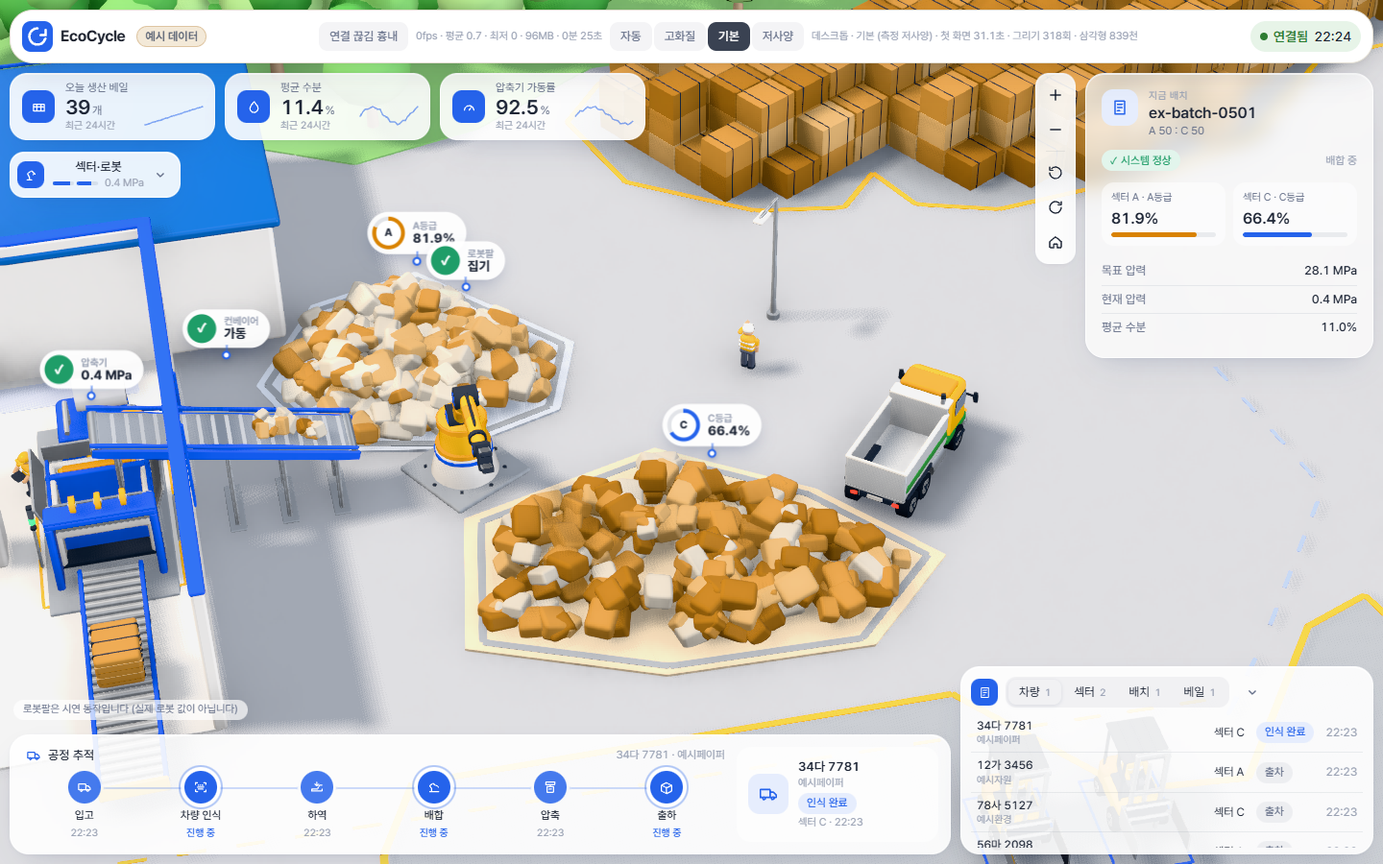
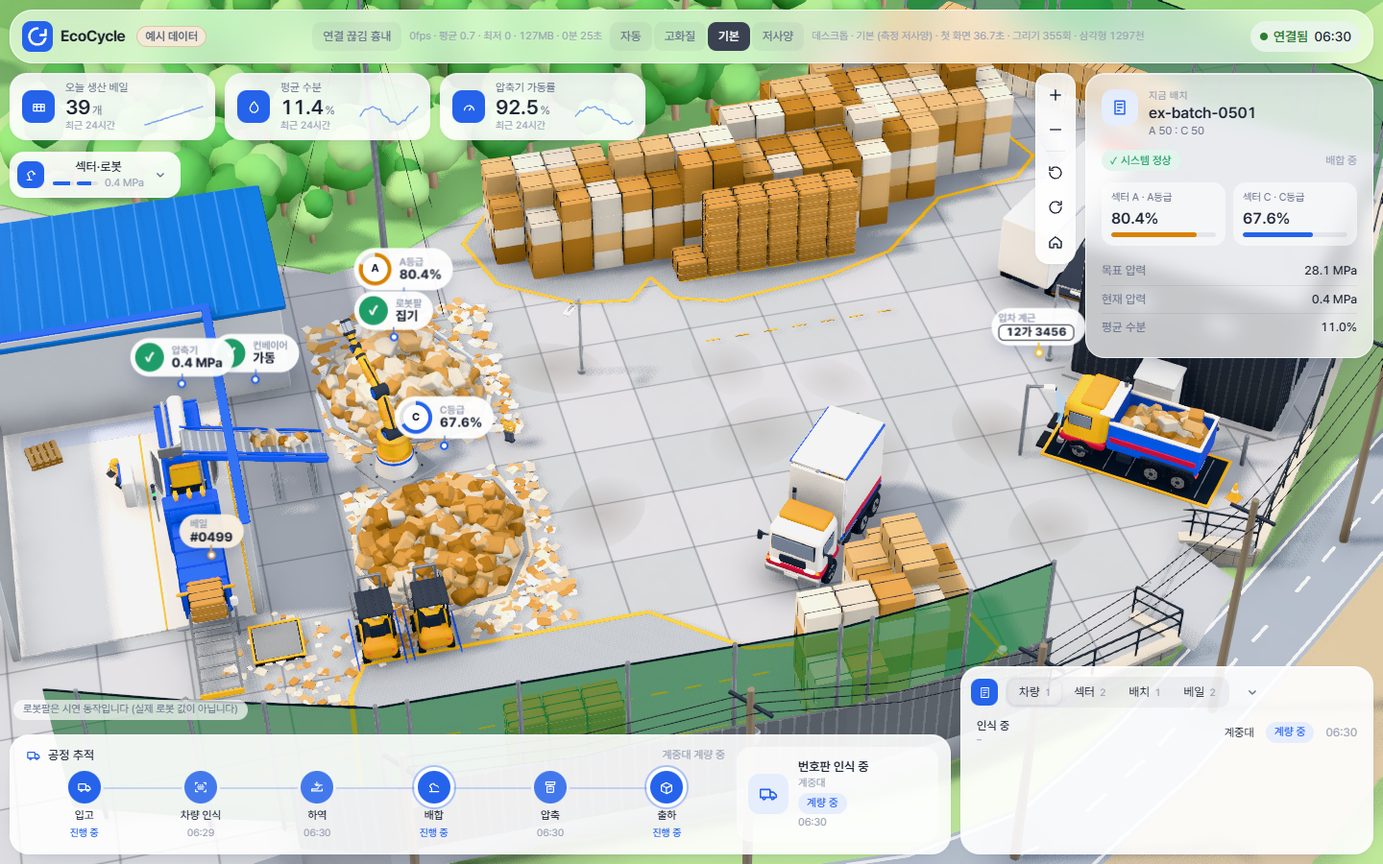
feat(studio): 현장 사진 방향 화면·점검 갈고리, 남동 베일 벽, 사진 비교 스크린샷과 studio 문서 갱신

diff --git a/app/src/studio/StudioScene.tsx b/app/src/studio/StudioScene.tsx
@@ -1,10 +1,12 @@
-import { useEffect, useMemo } from 'react';
+import { useEffect, useMemo, useRef } from 'react';
 import type { RobotModel } from '@ecocycle/shared';
 import { chainSpecFor } from './robot/chain';
 import { Stage } from './Stage';
 import type { StageProps } from './Stage';
 import { Director } from './sim/director';
 import type { StudioData } from './types';
+import { PHOTO_VIEWS } from './world/views';
+import { onSiteVehicles } from './overlay/text';
 
 // 3D 장면 조각: three.js와 무대·연출 감독은 모두 여기서부터 불러온다.
 // StudioView(패널, three 없음)가 이 파일만 lazy로 불러온다. 그래서 패널은 three를 기다리지 않고 바로 그려진다.
@@ -17,6 +19,10 @@ export interface StudioSceneProps extends Omit<StageProps, 'director' | 'robotSp
 }
 
 export default function StudioScene({ data, robotModel, onYardFull, ...stage }: StudioSceneProps) {
+  const { rig } = stage;
+  // 점검용: 표의 "차량 N"과 같은 선택자로 센 회사 안 차량 수를 장면 트럭 대수와 견준다
+  const latest = useRef(data);
+  latest.current = data;
   const director = useMemo(() => new Director(), []);
   const robotSpec = useMemo(() => chainSpecFor(robotModel), [robotModel]);
 
@@ -34,13 +40,24 @@ export default function StudioScene({ data, robotModel, onYardFull, ...stage }: 
     };
   }, [director, onYardFull]);
 
-  // 점검용: 주소에 ?yardprobe가 있으면 베일 적치의 겹침·칸 정합과 트럭끼리의 겹침을 읽는 함수를 내준다 (scripts/yardSoak.mjs). 화면 값에는 영향이 없다
+  // 점검용: 주소에 ?yardprobe가 있거나 세션 저장소에 점검 표시가 있으면 베일 적치의 겹침·칸 정합과 트럭끼리의 겹침을 읽는 함수를 내준다 (scripts/yardSoak.mjs). 화면 값에는 영향이 없다
   useEffect(() => {
-    if (!new URLSearchParams(window.location.search).has('yardprobe')) return;
-    const probe = window as unknown as { __yardAudit?: () => unknown };
-    probe.__yardAudit = () => ({ t: director.t, ...director.yard.audit(director.trucks), truckOnTruck: director.truckOverlaps(), ...director.yard.stats });
-    return () => void delete probe.__yardAudit;
-  }, [director]);
+    // (실제 홈은 로그인 뒤 주소가 바뀌므로 점검 스크립트가 세션 저장소에 'ecocycle.yardprobe'를 넣어 켠다)
+    if (!new URLSearchParams(window.location.search).has('yardprobe') && sessionStorage.getItem('ecocycle.yardprobe') !== '1') return;
+    const probe = window as unknown as { __yardAudit?: () => unknown; __studioView?: (key: string) => boolean };
+    probe.__yardAudit = () => ({ t: director.t, ...director.yard.audit(director.trucks), truckOnTruck: director.truckOverlaps(), trucksOnSite: director.truckCount(), vehiclesOnSite: onSiteVehicles(latest.current.vehicles).length, ...director.yard.stats });
+    // 사진과 같은 방향의 화면으로 카메라를 옮긴다 (점검 스크립트의 스크린샷용, world/views의 PHOTO_VIEWS)
+    probe.__studioView = (key) => {
+      const preset = PHOTO_VIEWS[key];
+      if (!preset || !rig.current) return false;
+      rig.current.view(preset);
+      return true;
+    };
+    return () => {
+      delete probe.__yardAudit;
+      delete probe.__studioView;
+    };
+  }, [director, rig]);
 
   return <Stage director={director} robotSpec={robotSpec} {...stage} />;
 }

diff --git a/app/src/studio/world/buildWorld.ts b/app/src/studio/world/buildWorld.ts
@@ -790,6 +790,7 @@ function staticBale(k: Kit, x: number, y: number, z: number, rot: number, tone: 
 }
 
 const TONES = [C.kraft, C.kraftLight, C.paperGrey, C.kraftDark, C.kraftLight, C.paper];
+const tone = (n: number): string => TONES[((n % TONES.length) + TONES.length) % TONES.length]!;
 
 /** 마당 좌표의 격자(같은 방향·간격)로 다각형 안을 채운다. keep(x, z)이 false면 비운다. 블록(4열)마다 4단 또는 5단 */
 function baleBlocks(k: Kit, poly: readonly P2[], keep: (x: number, z: number) => boolean, seed: number): number {
@@ -817,7 +818,7 @@ function baleBlocks(k: Kit, poly: readonly P2[], keep: (x: number, z: number) =>
       const block = Math.floor(i / 4) * 7 + Math.floor(j / 3);
       const edge = Math.min(...corners.map((c) => edgeDistance(c, poly)));
       const levels = (edge < 0.9 ? 3 : 4) + ((block * 2654435761) >>> 0) % 2;
-      for (let l = 0; l < levels; l += 1) staticBale(k, wx, TOP + 0.06 + l * BALE.h, wz, YARD_FRAME.rotY - Math.PI / 2, TONES[(i * 3 + j * 5 + l + Math.floor(rnd() * 2)) % TONES.length]!);
+      for (let l = 0; l < levels; l += 1) staticBale(k, wx, TOP + 0.06 + l * BALE.h, wz, YARD_FRAME.rotY - Math.PI / 2, tone(i * 3 + j * 5 + l + Math.floor(rnd() * 2)));
       n += 1;
     }
   }
@@ -828,16 +829,17 @@ function bales(k: Kit): void {
   // 북서: 칸 줄(지게차가 쓰는 곳, 길 앞) 뒤쪽을 모두 채운다
   const nwBack = YARD.nwSlotZ - BALE.d / 2 - 0.1;
   baleBlocks(k, BALE_AREAS.nw, (_x, z) => z + BALE.d / 2 < nwBack, 11);
-  // 남동: 칸 줄·길·대기 자리 밖, 북동 날개(높은 벽)
-  const seLaneEnd = YARD.laneEnd + 0.8;
-  baleBlocks(k, BALE_AREAS.se, (x, z) => x > seLaneEnd || (z > YARD.slotZ + BALE.d / 2 + 0.1 && x > YARD.seXs[YARD.seXs.length - 1]! + 0.8), 23);
+  // 남동: 지게차 길·칸 줄·가로지르는 길 밖을 모두 채운다 (북동 날개는 입구에서 보이는 높은 벽)
+  const lane = (x: number, z: number) => x > YARD.laneStart - 1.2 && x < YARD.laneEnd + 0.4 && z > -2.2 && z < YARD.slotZ + BALE.d / 2 + 0.05;
+  const exit = (x: number, z: number) => x > YARD.laneEnd - 1.6 && x < YARD.laneEnd + 2.6 && z < 1.2;
+  baleBlocks(k, BALE_AREAS.se, (x, z) => !lane(x, z) && !exit(x, z), 23);
   // 북쪽 그물망 곁 숲 경계 줄 (3단)
   const [a, b] = NORTH_ROW_PX.map(([x, y]) => sitePx(x, y));
   const len = Math.hypot(b![0] - a![0], b![1] - a![1]);
   const rot = Math.atan2(-(b![1] - a![1]), b![0] - a![0]);
   for (let s = 0.5; s < len; s += BALE.d + BALE_GAP) {
     const p: P2 = [a![0] + ((b![0] - a![0]) * s) / len, a![1] + ((b![1] - a![1]) * s) / len];
-    for (let l = 0; l < 3; l += 1) staticBale(k, p[0], TOP + 0.06 + l * BALE.h, p[1], rot, TONES[(Math.round(s * 3) + l) % TONES.length]!);
+    for (let l = 0; l < 3; l += 1) staticBale(k, p[0], TOP + 0.06 + l * BALE.h, p[1], rot, tone(Math.round(s * 3) + l));
   }
 }
 

diff --git a/app/src/studio/world/views.ts b/app/src/studio/world/views.ts
@@ -39,11 +39,24 @@ export const TOP_VIEW: ViewPreset = { key: 'top', label: '위에서 보기', hin
 export const AREAS: readonly ViewPreset[] = [
   { key: 'process', label: '섹터·로봇', hint: '섹터 A·C 더미, 로봇팔', tier: 'mid', at: [210, 372], height: 0.4, distance: 44, azimuth: 26, polar: 50 },
   { key: 'inbound', label: '입구·계근대', hint: '입차, 계근, 번호판 인식, 출차', tier: 'mid', at: [462, 272], height: 0, distance: 42, azimuth: 30, polar: 50 },
-  { key: 'baler', label: '압축기·레일', hint: '경사 레일, 압축기 건물, 배출구', tier: 'mid', at: [160, 440], height: 0.6, distance: 40, azimuth: 18, polar: 50 },
-  { key: 'bales', label: '베일 적치', hint: '남동 적치, 지게차, 상차(예시)', tier: 'mid', at: [338, 378], height: 0.2, distance: 50, azimuth: 30, polar: 50 },
+  { key: 'baler', label: '압축기·레일', hint: '경사 레일, 압축기, 배출 받침대·베일 저울', tier: 'mid', at: [178, 462], height: 0.6, distance: 38, azimuth: 18, polar: 50 },
+  { key: 'bales', label: '베일 적치', hint: '남동 적치, 북서 재고, 지게차, 상차', tier: 'mid', at: [320, 330], height: 0.2, distance: 52, azimuth: 30, polar: 52 },
 ];
 
 export const VIEWS: readonly ViewPreset[] = [WIDE_VIEW, TOP_VIEW, ...AREAS];
+
+/**
+ * 현장 사진과 같은 방향의 화면 (지역 전환 목록에는 없다: 점검 스크립트가 사진과 나란히 견줄 때만 쓴다).
+ * entrance: 입구 남쪽 도로에서 서북서, gate: 입구에서 서쪽, weighbridge: 사무실 남동 모서리 도로에서 북서쪽,
+ * approach: 사무실 북동쪽 도로에서 남쪽, upperRoad: 남동 바깥 더 높은 도로에서 북서쪽
+ */
+export const PHOTO_VIEWS: Record<string, ViewPreset> = {
+  entrance: { key: 'photo-entrance', label: '입구에서', hint: 'entrance.png', tier: 'mid', at: [430, 312], height: 0.6, distance: 30, azimuth: 66, polar: 72 },
+  gate: { key: 'photo-gate', label: '입구 안에서 서쪽', hint: 'from-gate-inside.png', tier: 'mid', at: [350, 330], height: 0.8, distance: 26, azimuth: 92, polar: 74 },
+  weighbridge: { key: 'photo-weighbridge', label: '계근대 쪽', hint: 'weighbridge.png', tier: 'mid', at: [430, 236], height: 0.8, distance: 24, azimuth: 46, polar: 72 },
+  approach: { key: 'photo-approach', label: '북동 도로에서', hint: 'approach.png', tier: 'mid', at: [470, 230], height: 0.6, distance: 30, azimuth: 160, polar: 72 },
+  upperRoad: { key: 'photo-upper-road', label: '남동 도로에서', hint: 'from-upper-road.png', tier: 'mid', at: [380, 410], height: 0.8, distance: 32, azimuth: 40, polar: 68 },
+};
 export const DEFAULT_VIEW: ViewPreset = AREAS[0]!;
 
 /** 거리 단계별 기준 거리 (확대·축소 버튼이 이 단계를 오간다) */

diff --git a/app/src/studio/sim/yard.ts b/app/src/studio/sim/yard.ts
@@ -146,6 +146,8 @@ const FACE_MINUS_Z = Math.PI / 2;
 const EJECT_SEC = 3.2;
 /** 두 베일을 한 번에 재는 동안 저울 위에 두는 시간(초, 연출) */
 export const WEIGH_SEC = 1.6;
+/** 압축기가 이만큼 넘게 기다리면 적치 구역이 가득 찬 것으로 알린다(초) */
+const FULL_AFTER_SEC = 20;
 /** 빈 포크 높이 */
 const LOW_FORK = 0.3;
 const IDLE_HOME_SEC = 0.4;
@@ -269,6 +271,8 @@ export class Yard {
   private seq = 0;
   /** 받침대 밀기(배출) 진행 0~1, 움직이지 않으면 -1 */
   private standMove = -1;
+  /** 내보낼 베일이 있는데 받침대가 막혀 기다린 시간(초) */
+  private blockedEjectT = 0;
   /** 저울 위 한 쌍을 잰 시간 */
   private weighT = 0;
   private readonly boxA = newBox();
@@ -584,7 +588,9 @@ export class Yard {
     this.stepBales();
     if (this.scaleCount() === 2 && !this.scaleBusy()) this.weighT += dt;
     this.dispatch();
-    const full = this.pending.length > 0 && !this.canEject();
+    // 압축기가 기다리는 것(받침대가 차서 내보내지 못함)이 잠깐이 아니면 "가득 참"으로 알린다 (평소 받침대 끝 베일을 집으러 오는 동안은 세지 않는다)
+    this.blockedEjectT = this.pending.length > 0 && !this.canEject() ? this.blockedEjectT + dt : 0;
+    const full = this.blockedEjectT > FULL_AFTER_SEC;
     if (full !== this.yardFull) {
       this.yardFull = full;
       this.events.onFull?.(full);

diff --git a/app/src/studio/world/layout.ts b/app/src/studio/world/layout.ts
@@ -29,7 +29,7 @@ export * from './views';
 //
 // ── 높이 ──────────────────────────────────────────────────────────────
 // 마당과 계근대 단(사무실 앞)은 높이 0이다. 동쪽 도로는 그보다 낮고(북쪽이 가장 낮다) 남쪽으로 오른다. 도로 쪽은 블록 옹벽 + 쇠 난간이고,
-// 차는 입구 경사로 한 곳으로만 드나든다(옛 차단봉 자리, 차단봉 없음). 높이는 groundY가 정한다(트럭·작업자가 밟는 높이).
+// 차는 입구 경사로 한 곳으로만 드나든다(옛 입구 자리, 막는 팔 없이 열려 있다). 높이는 groundY가 정한다(트럭·작업자가 밟는 높이).
 
 const DEG = Math.PI / 180;
 

diff --git a/app/src/studio/world/Dynamic.tsx b/app/src/studio/world/Dynamic.tsx
@@ -16,7 +16,7 @@ import { buildFloor, disposeFloor } from '../three/floorTexture';
 import { bakeGroundShadow, disposeBaked } from '../three/bakedShadow';
 import { buildWorld, edgeDistance, inside } from './buildWorld';
 
-// 월드의 고정물과, 기기 값에 따라 움직이는 부분(벨트·램·더미). 입구에는 차단봉이 없다(차가 그대로 지난다).
+// 월드의 고정물과, 기기 값에 따라 움직이는 부분(벨트·램·더미). 입구는 열린 경사로다(차가 멈추지 않고 그대로 지난다).
 
 const HIT = new MeshBasicMaterial({ transparent: true, opacity: 0, depthWrite: false });
 /** 압축기 건물의 파란 지붕을 걷는 카메라 거리 (부지 전체에서는 사진처럼 덮여 보이고, 구역 거리부터는 안이 보인다) */

diff --git a/app/src/studio/studio.css b/app/src/studio/studio.css
@@ -1293,11 +1293,7 @@ button.st-now:hover {
   display: none !important;
 }
 
-/* 서버 값이 없는 예시(상차 차량·북서 고정 재고): 점선 테두리로 실제 값과 구별한다. 고정 재고는 누르지 않는 이름표 */
-.st-pin-example .st-pin-card {
-  outline: 1.5px dashed rgba(47, 107, 255, 0.55);
-  outline-offset: -3px;
-}
+/* 누르지 않는 이름표 핀 (번호판 인식 장면) */
 .st-pin-label {
   pointer-events: none;
 }

diff --git a/app/src/studio/CLAUDE.md b/app/src/studio/CLAUDE.md
@@ -47,7 +47,8 @@ glTF 모델, 새 색·재질·배치·핀·패널. 기존 재질·팔레트·배
   가장자리에 초록 녹지 띠(#C3E4B4)와 풍성한 나무(숲도 맨땅도 아니게). 흰 벽 + 지붕선·모서리·문틀의 파랑 선(#2F6BFF), 벽 위 덮개·컨베이어 틀·압축기는 진한 파랑, 사무동 지붕은 옅은 회색(#D9DEE6).
   섹터는 칸막이 없는 노천 더미 둘(A·C): 더미 바닥에 등급 색(A 옅은 파랑 #E3ECFB, C 옅은 호박색 #FBEBD3) + 크라프트 파지 더미(높이는 서버 적재율).
   압축기 건물 지붕은 사진처럼 파랑(#4F8FE0, 옆동 #2F6FC4), 사무실 지붕은 짙은 회색, 북서쪽 숲은 짙은 녹지 + 나무.
-  트럭은 노랑 운전석 + 은색·파랑·흰색 적재함, 회사마다 색 띠 하나(회사 이름은 서버 값, 이름 → 색은 `theme.ts`의 `companyStripe`), 지게차·로봇·작업자 조끼는 **안전 노랑**, 상차 차량("예시")은 흰 운전석 + 평판, 사무실 곁에 세워 둔 트레일러(흰 적재함). 색은 `theme.ts`.
+  트럭(덤프)은 노랑 운전석 + 은색·파랑·흰색 적재함, 회사마다 색 띠 하나(회사 이름은 서버 값, 이름 → 색은 `theme.ts`의 `companyStripe`), 지게차·로봇·작업자 조끼는 **안전 노랑**, 상차 차량(서버 kind outbound)은 흰 운전석 + 윙바디(상차 자리에서 양쪽 날개가 위로 열린다), 사무실 서쪽에 세워 둔 대형 화물차(빨간 운전석 + 흰 적재함, 위성사진 실측 91px). 색은 `theme.ts`.
+  현장 사진(2026-11-25) 재질: 사무실 짙은 회색 골판 2층(세로 골, 서쪽 1층 차양·큰 창·소화기, 동쪽 실외기, 남서 흰 창고), 압축기 건물 회색 벽 + 파란 지붕 + 지붕 위 파란 물탱크, 동쪽 블록 옹벽 + 쇠 난간, 북·남 높은 녹색 그물망, 남동 회색 철판 울타리, 도로변 전봇대·전선, 숲 쪽 높은 철 기둥, 부지 둘레 낮은 숲 언덕과 먼 산 능선.
   **전체 채도를 빼지 않는다.** 회색 화면은 연결 끊김에만.
 - 빛: 따뜻한 해(2.6)와 또렷하고 부드러운 그림자 + 진한 주변 차폐. 노출을 올리면 밝은 바닥들이 같은 흰색으로 뭉개져 구역이 사라진다(두 번 겪었다: 빛을 바꾸면 렌더 결과 픽셀을 재서 확인하고, 모자라면 바닥 원색을 어둡게 한다).
 - 카메라 거리 세 단계(`world/layout.ts`): **wide** 부지 전체(`WIDE_VIEW`, 사진처럼 위에서 보는 `TOP_VIEW`), **mid** 한 구역(`AREAS`, 첫 번째가 기본 화면), **close** 고른 대상(`CLOSE_DISTANCE`). 처음에는 wide에서 기본 구역으로 들어온다.
@@ -55,20 +56,24 @@ glTF 모델, 새 색·재질·배치·핀·패널. 기존 재질·팔레트·배
 - 패널: 성에 낀 흰 유리, 큰 모서리, 작고 가는 글씨, 카드마다 강조 숫자 하나, 상세 패널은 4~5줄 + "자세히", 표는 개수 붙은 탭 + 상태 알약.
 - 선택 표시: 흰 알약 핀(상태 점 ✓ 또는 섹터 적재율 고리 + 이름 + 짧은 값, 아래에 가리키는 점), 고르면 파랑 칩. 멀리서와 폰 폭에서는 섹터 핀이 고리만. 선 상자, 굵게 퍼지는 고리, 고른 차량의 흐르는 점선과 목적지 3D 핀.
 - 찰흙·장난감 같은 형태: 넉넉한 모서리 둥글림, 어디에나 부드러운 주변 차폐, 닿는 곳의 그림자, 부드러운 환경광.
-- 눈이 가는 곳에 디테일: 트럭(운전석·창·거울·등·들리는 적재함·바퀴), 지게차(마스트·포크·머리 보호 틀·운전자), 형광 조끼 작업자, 로봇팔, 압축기(투입구·램·결속부·배출 롤러), 파지 더미가 쌓인 섹터 칸.
+- 눈이 가는 곳에 디테일: 트럭(운전석·창·거울·등·들리는 적재함·바퀴), 지게차(마스트·포크·머리 보호 틀·운전자), 형광 조끼 작업자, 로봇팔, 압축기(투입구·램·결속부·배출 받침대·베일 저울), 파지 더미가 쌓인 섹터 칸.
 - 배치는 화면 폭 세 단계(`StudioView`의 `useLayout`), **폰부터** 맞춘다:
   - **폰(600px 미만, 기준 390×844)**: 앱 상단 바(로고 · 예시 · 3D/대시보드 전환 · 시각 · 사용자), 옆으로 미는 지표 칩 한 줄(오른쪽 끝을 흐리게 해 밀린다는 것을 알린다), 그 아래 3D가 화면 대부분, 왼쪽 위 지역 전환, 오른쪽 위 작은 지도 도구,
     아래 시트 하나(`PhoneSheet`: 기본은 접혀 공정 막대 + 요약 한 줄, 펼치면 배치 · 차량 · 섹터 · 베일 탭, 고르면 상세). 6단계 추적은 막대 + 지금 단계 이름만(`TrackerBar`).
   - **세로 태블릿(1000px 미만, 기준 820×1180)**: 지표 카드가 한 줄을 채우고, 상세 패널은 오른쪽, 표와 공정 추적이 아래에 쌓인다. 아무것도 고르지 않았을 때 배치 요약은 한 줄 칩(배치 번호 · 배합 · 현재 압력, `Detail`의 `collapsible`)으로 접혀 있고 누르면 펼친다(3D를 덜 가리게). 지역 전환은 지도 도구 오른쪽. 아래 표는 접기 단추로 요약 한 줄까지 접고(기기에 기억), 접힌 표는 공정 추적 바로 위에 붙는다.
   - **넓은 화면**: 상단 바, 지표 카드 3개(작은 추이선), 지도 도구, 오른쪽 상세 패널, 왼쪽 아래 6단계 공정 추적(입고 → 차량 인식 → 하역 → 배합 → 압축 → 출하, 둥근 아이콘을 선으로 잇고 오른쪽에 지금 대상 카드), 오른쪽 아래 탭 표(차량 / 섹터 / 배치 / 베일, 접기 단추로 요약 한 줄, 기기에 기억), 지표 카드 아래 왼쪽에 지역 전환.
   - 어느 폭에서도 패널끼리 겹치지 않는다(펼침 메뉴·시트를 펼친 때는 예외). 배치를 고치면 390×844와 820×1180에서 찍어 본다.
-- 배치는 실제 부지의 위성사진(위가 북쪽)을 따른다(`docs/decisions.md` 2026-11-24 "실제 부지 배치와 섹터 2곳"). 사진 좌표 → 월드는 `world/layout.ts`의 `sitePx` 하나(닮음 변환: 로봇이 원점, 사진의 레일 방향이 θc, 1px = 0.08, 뒤집지 않음)로만 옮긴다.
-  동쪽 도로, 사무실(트레일러 곁) 바로 아래 계근대, 그 아래 입구(계근대와 남동 베일 구역 사이), 가운데 빈 마당, 로봇(섹터 A 북서 · C 남동 더미 사이)에서 남서쪽 압축기 건물로 오르는 경사 레일,
-  건물 남동 모서리 배출구, 베일 구역 둘(남동 ㄴ자: 서버 베일 적치, 북서 ㄱ자: 고정 재고 "예시"), 북서쪽 숲. 주변은 숲과 도로뿐이고, 주차 차량·이웃 건물은 넣지 않는다(사무실 곁 트레일러 하나만).
-- 전체 흐름: 트럭이 북쪽 도로로 와서 입구 → 계근대(번호판 인식까지 기다림) → 배정 더미 앞에서 후진(하역 단계에 적재함을 기울임) → 출차 단계가 오면 계근대로 돌아와 다시 재고(동쪽을 봄) → 같은 입구로 남쪽 도로.
-  로봇이 배합 → 레일 → 서버가 정한 압력으로 압축 → 베일 → 지게차가 남동 칸에 적치 → 서버가 출하하면 지게차가 북서 재고로 옮긴다.
-  상차 차량("예시", 서버 값 없음): 입구 → 계근 → 남동 구역 곁 상차 자리 → 지게차가 북서 재고에서 베일을 실음 → 다시 계근 → 같은 입구로 나간다. 핀·패널은 "예시"만 적는다(번호판·회사·무게 없음).
-  모두 스스로 움직이고 서로 비켜 가서 겹치지 않는다. 계근대·입구는 "계근대 차례", 마당 안쪽 길·지게차가 가로지르는 길은 "마당 차례"(`sim/token.ts`)를 잡은 하나만 움직이고, 서 있는 자리는 어느 길에도 걸치지 않는다.
+- 배치는 실제 부지의 위성사진(위가 북쪽)과 현장 사진 6장을 따른다(`docs/decisions.md` 2026-11-24 "실제 부지 배치와 섹터 2곳", 2026-11-25 "출차 계근·상차 차량을 서버 값으로, 현장 사진 기준 3D 다듬기"). 사진 좌표 → 월드는 `world/layout.ts`의 `sitePx` 하나(닮음 변환: 로봇이 원점, 사진의 레일 방향이 θc, **1px = 0.072**, 뒤집지 않음)로만 옮긴다.
+  배율은 위성사진에서 잰 베일 줄 간격(13.3 × 13.8px)·화물차(62.5px)·계근대(66.9px)로 정했다. 장면 트럭은 베일에 비해 짧아 모형을 **1.4배**(`TRUCK`, 56 × 22.5px, 계근대 안)로, 지게차는 **1.15배**(`FORKLIFT_SCALE`)로 그린다. 베일은 0.90 × 0.95 × 0.66(틈 0.06).
+  **지형**: 마당과 계근대 단은 높이 0, 동쪽 도로는 낮고(북쪽이 가장 낮다) 남쪽으로 오른다(`roadY`, 바닥 높이는 `groundY`). 도로 쪽은 블록 옹벽 + 쇠 난간(`WALL_PX`)이고, 차는 **입구 경사로 한 곳**(`RAMP_PX`, 옛 입구 자리)으로만 드나든다. 입구를 막는 팔은 없다(차가 그대로 지난다).
+  동쪽 도로, 사무실(서쪽에 대형 화물차) 바로 아래 계근대(동쪽 끝은 옹벽, 서남 끝에 번호판 인식 카메라 기둥), 그 아래 경사로, 가운데 콘크리트 마당(줄눈·얼룩은 바닥 텍스처 한 장 `three/floorTexture.ts`), 로봇 양옆의 큰 노천 더미 A(북서)·C(남동) — **레일 축에 거울 대칭**(`PILE_UW` 하나를 A는 (u, −w), C는 (u, +w)),
+  로봇에서 남서쪽 압축기 건물로 오르는 경사 레일, 건물 안 **길쭉한 가로형 압축기**(뒤 유압 실린더 · 투입구 · 긴 압출 통로·결속부, 배출 롤러 없음), 남동 벽 배출구 뒤 **금속 받침대**(새 베일이 앞 베일을 한 칸씩 밀어낸다), 받침대 마당 쪽 **베일 저울**(무게 숫자 없음),
+  베일 구역 둘(남동 ㄴ자: 새 베일을 쌓는 칸 줄 + 북동 날개의 높은 벽, 북서 ㄱ자: 적치 재고), 북쪽 그물망 곁 베일 줄, 흩어진 파지 조각, 북서쪽 숲. 주차 차량·이웃 건물은 넣지 않는다.
+- 전체 흐름 (서버 `stage`를 따르는 연출):
+  - 입고 트럭: 도로(북쪽 밖) → 경사로로 올라 계근대 서쪽 앞에서 서쪽을 보고 선 뒤 **후진으로 계근대에 오른다** → **번호판 인식 장면**(카메라 빛줄기 + 핀 "입차 계근" · 서버 `plate`, 인식 전 "인식 중…", 입력 칸 없음, 인식되면 잠깐 보여 준 뒤) → **앞으로 내려가** 배정 더미 앞에서 후진(`unloading`에만 적재함을 든다) → `weighing_out`에 **앞으로 계근대에 올라** 동쪽을 보고 다시 잰다(인식 장면 "출차 계근") → `departed`에 **후진으로 서쪽에 내려와** 같은 경사로로 남쪽 도로.
+  - 상차 차량(`kind: "outbound"`, 윙바디): 같은 입구 → 계근(`arrived`·`identified`) → 남동 구역 북동 날개 곁 상차 자리(`HOLD`, 날개를 연다) → `loading`·`loaded` 동안 지게차가 북서 맨 위 베일을 하나씩 싣는다(실은 수 = 서버 `baleIds` 수, 이미 상차 중인 차는 그만큼 실린 채 놓는다) → `weighing_out`에 날개를 닫고 물렸다가 앞으로 계근대에 올라 잰다 → `departed`에 후진으로 내려와 경사로로 나간다. 서버 값 없이 시간으로 만드는 상차 차량은 없다.
+  - 베일(`sim/yard.ts`): 배출 → 받침대(끝에 닿은 베일만 지게차가 집는다) → 저울에 두 개를 위아래로 겹쳐 한 번에 잼 → 남동 칸 줄에 한 쌍씩(4단) → 남동의 빈 열이 모자라면 **가장 오래된 열부터 줄 단위로 북서**로 → 서버 `shipped`는 북서에서 하나가 빠진다(그 베일이 남동에 있으면 이름 없는 재고가 되고 북서 맨 위가 빠진다. 상차 자리의 차에 실린 것이면 지게차가 북서에서 꺼내 싣는다). 처음 열 때 남동·북서에는 이름 없는 재고(숫자·이름 없음)가 쌓여 있다. 정돈: 모두 같은 방향·같은 간격(칸 줄 축), 무작위 회전 없음.
+  모두 스스로 움직이고 서로 비켜 간다(트럭은 1.4배 외곽선으로 앞을 살핀다). 경사로·계근대·그 서쪽 앞마당은 "계근대 차례", 마당 안쪽 길·지게차가 가로지르는 길·북서 길은 "마당 차례"(`sim/token.ts`)를 잡은 하나만 움직인다. 트럭은 계근대에 오른 뒤 갈 곳(더미 앞·대기 자리·상차 자리)이 있을 때만 경사로로 들어오고, 출차 계근을 기다리는 차가 먼저다. 회사 안 차량(서버 `departed` 아님)은 모두 장면에 그린다(도로에 줄 선다): 장면의 회사 안 트럭 대수 = 표의 "차량 N".
 
 ## 구조
 
@@ -88,37 +93,38 @@ studio/
 ├── modelList.ts        모델 파일 목록(지금은 비어 있음: 장면은 코드 모형만 쓴다). three 없음 (미리 받기도 읽는다)
 ├── studio.css          이 탭 전용 스타일 (st- 접두사). 앱의 Tailwind·토큰을 쓰지 않는다
 ├── sim/
-│   ├── director.ts     "연출 감독": 서버 단계 → 트럭·상차 차량(예시)·작업자의 움직임과 베일 적치(`yard`) 호출. 길 차례 둘. three 미사용, 테스트 가능. motionKey()로 "움직였나"를 알려 준다
-│   ├── yard.ts         베일 적치·출하(마당 좌표계 `YARD_FRAME`): 남동 고정 칸(8열×3단), 지게차 1~2대, 길 한 줄·비켜 가기, 출하 베일은 북서 재고로, 상차(예시), 칸이 차면 압축기 대기(`yardFull`), 겹침·정합 점검 `audit`. three 미사용 (`yard.test.ts`가 10~50분어치를 돌린다)
+│   ├── director.ts     "연출 감독": 서버 단계 → 입고 트럭·상차 차량(윙바디)·작업자의 움직임, 번호판 인식 장면(`plateScan`), 베일 적치(`yard`) 호출. 길 차례 둘. three 미사용, 테스트 가능. motionKey()로 "움직였나"를 알려 준다
+│   ├── yard.ts         베일 적치(마당 좌표계 `YARD_FRAME`, 레일 축과 나란함): 받침대·저울·남동 칸 줄(7열×4단)·북서 칸 줄(6열×4단), 지게차 1~2대, 줄 옮기기, 북서 출하·상차, 받침대가 오래 막히면 `yardFull`, 겹침·정합 점검 `audit`. three 미사용 (`yard.test.ts`)
 │   ├── token.ts        길 차례(계근대·마당): 한 번에 한 대, 지게차는 트럭이 기다리지 않을 때만
-│   ├── traffic.test.ts 시연 원본 20분: 트럭·상차 차량·지게차가 겹치지 않고 모두 끝까지 간다
+│   ├── traffic.test.ts 시연 원본 30분: 겹침 없음, 트럭 대수 = 회사 안 차량 수, 경사로로만 출입, 계근 앞/후진, 번호판은 서버 값만
 │   ├── mover.ts        경로를 따라 움직이는 것(트럭·지게차·작업자)의 공통 이동
 │   ├── pace.ts         박자: 단계의 프레임 상한마다 시계를 돌리고(끊기면 안 돌림) 그릴지 정한다. three 미사용, 테스트 가능
 │   └── paths.ts        둥글린 경로와 거리 → 위치·방향
 ├── world/
 │   ├── layout.ts       사진 → 월드 변환(`sitePx`)과 월드 배치·경로·핀 자리 (섹터 집는 각도·시연 주기만 config/robotCycle). views.ts를 다시 내보낸다
 │   ├── views.ts        카메라 지역(부지 전체·위에서 보기·섹터·로봇·입구·계근대·압축기·레일·베일 적치)·거리 단계. 보는 곳은 사진 px, Rig가 sitePx로 옮긴다 (three 없음: 패널의 지역 전환도 읽는다)
-│   ├── layout.test.ts  사진 → 월드 변환(원점·레일 방향·같은 배율·뒤집지 않음), 섹터 좌우, 남동 칸이 ㄴ자 안
-│   ├── buildWorld.ts   고정물 조립: 숲·도로·사무실·계근대·입구·베일 구역·북서 재고·압축기 건물(본동 벽은 방향별로 따로: 카메라 쪽 벽을 숨기고, 파란 지붕은 가까이 오면 걷는다)
+│   ├── layout.test.ts  사진 → 월드 변환(원점·레일 방향·같은 배율·뒤집지 않음), 크기 비율, 지형 높이, 섹터 대칭(0.1m), 트럭 외곽선과 고정물·서 있는 자리의 겹침, 경사로 한 곳 출입, 계근대 동쪽 끝, 칸·받침대·저울 자리
+│   ├── buildWorld.ts   고정물 조립(합친 메시): 땅·비탈 도로·경사로·옹벽·난간, 그물망·철판 울타리, 전봇대·전선·철 기둥, 숲·언덕·능선, 사무실·창고·대형 화물차, 계근대·번호판 카메라, 압축기 건물(회색 벽·파란 지붕·물탱크, 본동 벽은 방향별로 따로: 카메라 쪽 벽을 숨기고, 지붕은 가까이 오면 걷는다)·가로형 압축기·받침대·저울, 베일 블록(북서 재고·남동 날개·북쪽 줄), 파지 조각
 │   ├── props.ts        나무·가로등·팔레트·베일 같은 소품 조립법
-│   ├── Dynamic.tsx     고정물 그리기(벽·지붕 숨기기), 노천 파지 더미, 경사 레일 벨트·뭉치, 압축기 램·표시등, 입구 차단기, 누르는 영역
+│   ├── Dynamic.tsx     고정물 그리기(벽·지붕 숨기기, 마당 바닥 텍스처), 노천 파지 더미, 경사 레일 벨트·뭉치, 압축기 램·표시등, 번호판 인식 빛줄기, 누르는 영역
 ├── actors/
-│   ├── build.ts        트럭·지게차·작업자·베일·뭉치 모형 (움직이는 마디마다 그룹)
-│   ├── Actors.tsx      Director 값을 모형에 옮겨 적기 (쏟아지는 파지 포함, 지게차 1~2대, 베일은 InstancedMesh)
+│   ├── build.ts        트럭(덤프·윙바디)·지게차·작업자·베일·뭉치 모형 (움직이는 마디마다 그룹, 모형 크기: 그릴 때 TRUCK.scale·FORKLIFT_SCALE배)
+│   ├── Actors.tsx      Director 값을 모형에 옮겨 적기 (트럭 칸마다 덤프·윙바디 둘 중 하나, 경사로에서 차체를 기울임, 쏟아지는 파지, 지게차 1~2대, 베일은 InstancedMesh)
 │   └── Robot.tsx       로봇팔: robot/의 JointSource·ChainSpec으로 구동
 ├── robot/              로봇팔 관절 사슬(chain), 관절 입력(jointSource: 실시간·시연·고정), 공구 끝 위치(kinematics), robot.test.ts
 │                       (옛 scene/robot에서 옮겼다)
 ├── three/
-│   ├── kit.ts          "찰흙 조립 도구": 둥근 상자·원통·공을 색과 함께 쌓아 재질별 메시로 합친다. 공용 재질. 서 있는 조각의 바닥 투영 기록
+│   ├── kit.ts          "찰흙 조립 도구": 둥근 상자·원통·공·삼각형 묶음(비탈 면)을 색과 함께 쌓아 재질별 메시로 합친다. 공용 재질(그물망은 비치는 녹색). 서 있는 조각의 바닥 투영 기록
+│   ├── floorTexture.ts 마당 콘크리트 줄눈·얼룩을 캔버스 한 장에 굽는 바닥 판 (low도 같은 텍스처, 그리기 1번)
 │   ├── motion.ts       필요할 때만 그리기의 깨우개(useWaker, useClockWaker)와 Motion
 │   ├── bakedShadow.ts  low 단계의 미리 구운 바닥 그림자(바닥 투영 → 캔버스 한 장)와 차량 아래 둥근 그림자
 │   ├── Rig.tsx         카메라: 거리 세 단계(wide·mid·close)와 확대·축소·회전, 끌기·휠·핀치, 선택 대상 따라가기
 │   └── Fx.tsx          그린 장 수 세기(Sim), 환경광, 선택 고리·선 상자, 고른 차량의 점선과 목적지 핀, 핀 투영
 ├── overlay/
-│   ├── Panels.tsx      지역 전환, 끊김 알림, 지도 도구, 지표 카드, 상세 패널, 공정 추적, 표(접기·장면에 없는 대상은 팝업), 핀, 폰의 아래 시트·공정 막대
+│   ├── Panels.tsx      지역 전환, 끊김 알림, 지도 도구, 지표 카드, 상세 패널, 공정 추적, 표(접기·장면에 없는 대상은 팝업), 핀(번호판 인식 핀 포함, "예시" 핀 없음), 폰의 아래 시트·공정 막대
 │   ├── icons.tsx       작은 선 아이콘
 │   └── text.ts         문구와 공정 추적 계산(서버 stage → 여섯 칸)
-├── demo/demoData.ts    /scene-demo용 예시 원본 (전부 "예시 데이터")
+├── demo/demoData.ts    /scene-demo용 예시 원본 (전부 "예시 데이터"): 입고 차량과 네 번째마다 상차 차량(서버 모양 그대로 kind·baleIds·출차 계근), 상차 일정대로 출하되는 베일(vehicleId)
 ├── studio.test.tsx
 └── loading.test.tsx    조각 나누기(패널에 three 없음), 3D 전 패널·준비 화면, 장면 올리는 때, 미리 받기(정적 파일만), 포스터(빈 장면)
 ```
@@ -180,6 +186,7 @@ studio/
   4. 셰이더를 `renderer.compileAsync`로 미리 컴파일하고 첫 장을 그리면 준비 화면을 걷는다.
 - 포스터(`app/public/studio/poster-wide.jpg`, 세로 화면은 `poster-tall.jpg`)는 로그인 전에 받는 공개 파일이다: **빈 장면만**(데이터 없음, 로봇 기본 자세, 번호판·회사 이름·숫자·패널·핀 없음). `npm run poster`(`scripts/poster.mjs`, `/scene-demo?poster=1`)로 찍고, 화면에 글자가 있으면 멈춘다. 장면이 크게 바뀌면 다시 찍는다.
 - 첫 화면 시간 측정: `npm run measure:load`(`scripts/loadtime.mjs`): 프로덕션 빌드를 배포처럼(gzip, 다시 확인 캐시) 내주고 390×844 폰, 4G(4Mbps·150ms), CPU 4배 느림으로 로그인 → 지표 숫자, 로그인 → 3D 첫 장을 잰다. 결과는 `docs/decisions.md`.
+- 반복물은 합친 메시(`Kit`): 베일 블록·그물망·울타리·난간·전봇대·전선·나무·언덕·파지 조각은 재질별 메시 몇 개에 들어가 그리기 횟수가 늘지 않는다. 줄눈·얼룩은 텍스처(판 하나).
 - 측정 화면: `/scene-demo`(3D 홈만, 예시 데이터). 상단 바에 그린 장 수(지금·평균·최저), 메모리, 기기 종류·단계(측정값), 첫 화면까지 걸린 시간, 그리기 횟수·삼각형 수. 측정값과 묶음 크기는 `docs/decisions.md`.
 
 ## 글 줄바꿈
@@ -189,4 +196,4 @@ studio/
 
 ## 스크린샷
 
-단계별 확인 화면은 `docs/screenshots/studio/`에 둔다(1440×900). 실제 부지 배치(S2d)는 `site-layout/`. 참고 화면과의 비교는 `reference-match/`(세로 820×1180 포함), 구역 색 이전·이후는 `colour/`, 첫 시안 색·빛으로 되돌린 비교는 `restore-look/`, 화질 단계별(390×844·820×1180·1440×900)은 `tiers/`, 폰·세로 태블릿 배치는 `phone/`.
+단계별 확인 화면은 `docs/screenshots/studio/`에 둔다(1440×900). 실제 부지 배치(S2d)와 현장 사진 기준 다듬기(S2e)는 `site-layout/`(`node app/scripts/yardStatic.mjs`가 시연·실제 홈을 세 크기와 사진 방향 화면(`world/views`의 `PHOTO_VIEWS`, 주소 ?yardprobe의 `window.__studioView`)으로 찍는다). 참고 화면과의 비교는 `reference-match/`(세로 820×1180 포함), 구역 색 이전·이후는 `colour/`, 첫 시안 색·빛으로 되돌린 비교는 `restore-look/`, 화질 단계별(390×844·820×1180·1440×900)은 `tiers/`, 폰·세로 태블릿 배치는 `phone/`.
